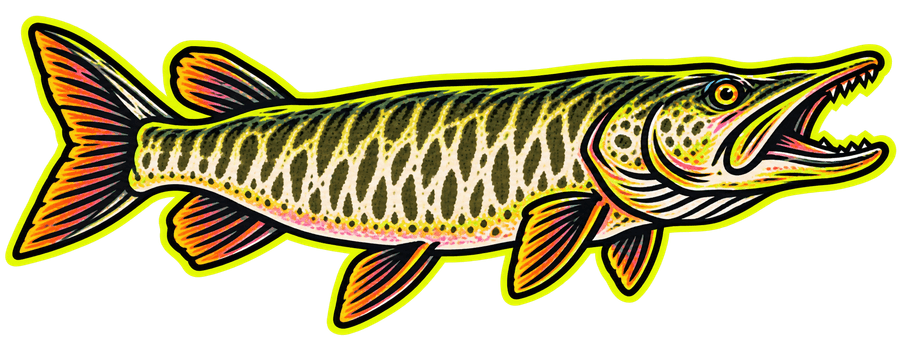
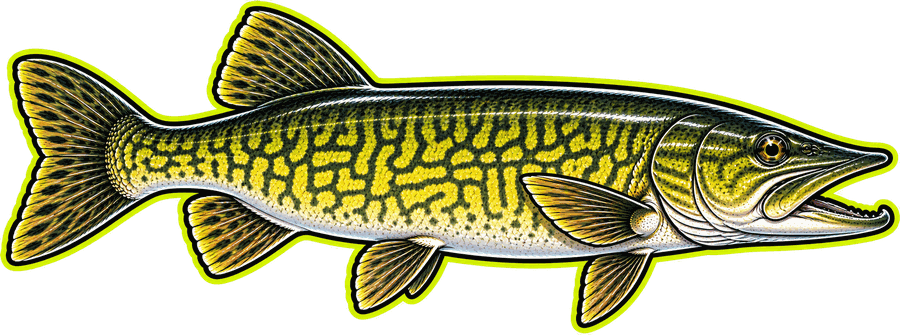
Replace flounder/lake trout/pike art and add salmon and black sea bass
Flounder, lake trout, and Northern Pike (the last species still using the
site's original pre-project art) all get dedicated higher-resolution
replacements, extracted the same way as the last two batches.

Also fills two real gaps: Atlantic/Coho Salmon had no art at all (silently
falling back to trout) and now has its own 'salmon' icon, and Black Sea
Bass is a new species entirely — distinguishable from Tautog by its spiny
dorsal fin and black-with-white-fleck coloring rather than Tautog's mottled
brown. Its fuzzy-match alias intentionally takes "Sea Bass" away from the
generic bass fallback, since that's what it means in this app's NJ context;
updated the one existing test that assumed otherwise.
Claude-Session: https://claude.ai/code/session_01ANgX2W6yVvt64iPpUn3SXt

diff --git a/src/utils/speciesOptions.test.js b/src/utils/speciesOptions.test.js
@@ -7,7 +7,7 @@ describe('SPECIES_OPTIONS', () => {
       'snakehead', 'chainpickerel', 'walleye', 'perch', 'whiteperch', 'catfish', 'carp',
       'browntrout', 'rainbowtrout', 'brooktrout', 'laketrout', 'trout', 'salmon',
       'falsealbacore', 'bluefish', 'mahimahi', 'mackerel', 'shark', 'flounder', 'tautog',
-      'weakfish', 'speckledtrout', 'cobia', 'redfish',
+      'weakfish', 'speckledtrout', 'cobia', 'redfish', 'blackseabass',
     ]);
     for (const option of SPECIES_OPTIONS) {
       expect(option.label.trim()).toBe(option.label);
@@ -56,6 +56,7 @@ describe('speciesIcon', () => {
     expect(speciesIcon('False Albacore')).toBe('falsealbacore');
     expect(speciesIcon('Tuna')).toBe('falsealbacore');
     expect(speciesIcon('Snook')).toBe('largemouth');
+    expect(speciesIcon('Black Sea Bass')).toBe('blackseabass');
   });
 
   test('matches canonical labels case-insensitively', () => {
@@ -68,7 +69,10 @@ describe('speciesIcon', () => {
     expect(speciesIcon('Giant Tuna')).toBe('falsealbacore');
     expect(speciesIcon('Some Random Shark')).toBe('shark');
     expect(speciesIcon('Trophy Largemouth')).toBe('largemouth');
-    expect(speciesIcon('Sea Bass')).toBe('largemouth');
+    expect(speciesIcon('Peacock Bass')).toBe('largemouth');
+    // "Sea Bass" alone commonly means black sea bass in this app's NJ context, so it
+    // resolves there rather than to the generic bass fallback.
+    expect(speciesIcon('Sea Bass')).toBe('blackseabass');
     expect(speciesIcon('Giant Snakehead')).toBe('snakehead');
     expect(speciesIcon('Trophy Lake Trout')).toBe('laketrout');
     expect(speciesIcon('Trophy Brown Trout')).toBe('browntrout');

diff --git a/src/components/FishIllustration.js b/src/components/FishIllustration.js
@@ -28,6 +28,8 @@ import cobia from '../assets/fish/cobia.png';
 import falsealbacore from '../assets/fish/falsealbacore.png';
 import mahimahi from '../assets/fish/mahimahi.png';
 import mackerel from '../assets/fish/mackerel.png';
+import salmon from '../assets/fish/salmon.png';
+import blackseabass from '../assets/fish/blackseabass.png';
 
 // Bold neon-outline sticker art the user generated directly, matching the reference photos
 // they shared. Every species below has its own art; anything else falls back to trout — no
@@ -62,6 +64,8 @@ const fishDetails = {
   falsealbacore: { label: 'False albacore', src: falsealbacore },
   mahimahi: { label: 'Mahi mahi', src: mahimahi },
   mackerel: { label: 'Atlantic mackerel', src: mackerel },
+  salmon: { label: 'Atlantic salmon', src: salmon },
+  blackseabass: { label: 'Black sea bass', src: blackseabass },
 };
 
 export const HERO_SPECIES = Object.keys(fishDetails).filter((key) => key !== 'pike' && key !== 'trout');

diff --git a/src/utils/speciesOptions.js b/src/utils/speciesOptions.js
@@ -34,6 +34,7 @@ export const SPECIES_OPTIONS = [
   { label: 'Speckled Trout', icon: 'speckledtrout' },
   { label: 'Cobia', icon: 'cobia' },
   { label: 'Redfish', icon: 'redfish' },
+  { label: 'Black Sea Bass', icon: 'blackseabass' },
   { label: 'Snook', icon: 'largemouth' },
 ];
 
@@ -90,6 +91,9 @@ const ICON_ALIASES = [
   ['cobia', 'cobia'],
   ['redfish', 'redfish'],
   ['red drum', 'redfish'],
+  ['black sea bass', 'blackseabass'],
+  ['blackseabass', 'blackseabass'],
+  ['sea bass', 'blackseabass'],
   ['snook', 'largemouth'],
   ['pike', 'pike'],
   ['tuna', 'falsealbacore'],

diff --git a/src/components/FishIllustration.test.js b/src/components/FishIllustration.test.js
@@ -43,6 +43,8 @@ test.each([
   ['falsealbacore', /false albacore/i],
   ['mahimahi', /mahi mahi/i],
   ['mackerel', /atlantic mackerel/i],
+  ['salmon', /atlantic salmon/i],
+  ['blackseabass', /black sea bass/i],
 ])('renders its own art for %s', (species, nameMatcher) => {
   render(<FishIllustration species={species} />);
   const img = screen.getByRole('img', { name: nameMatcher });
